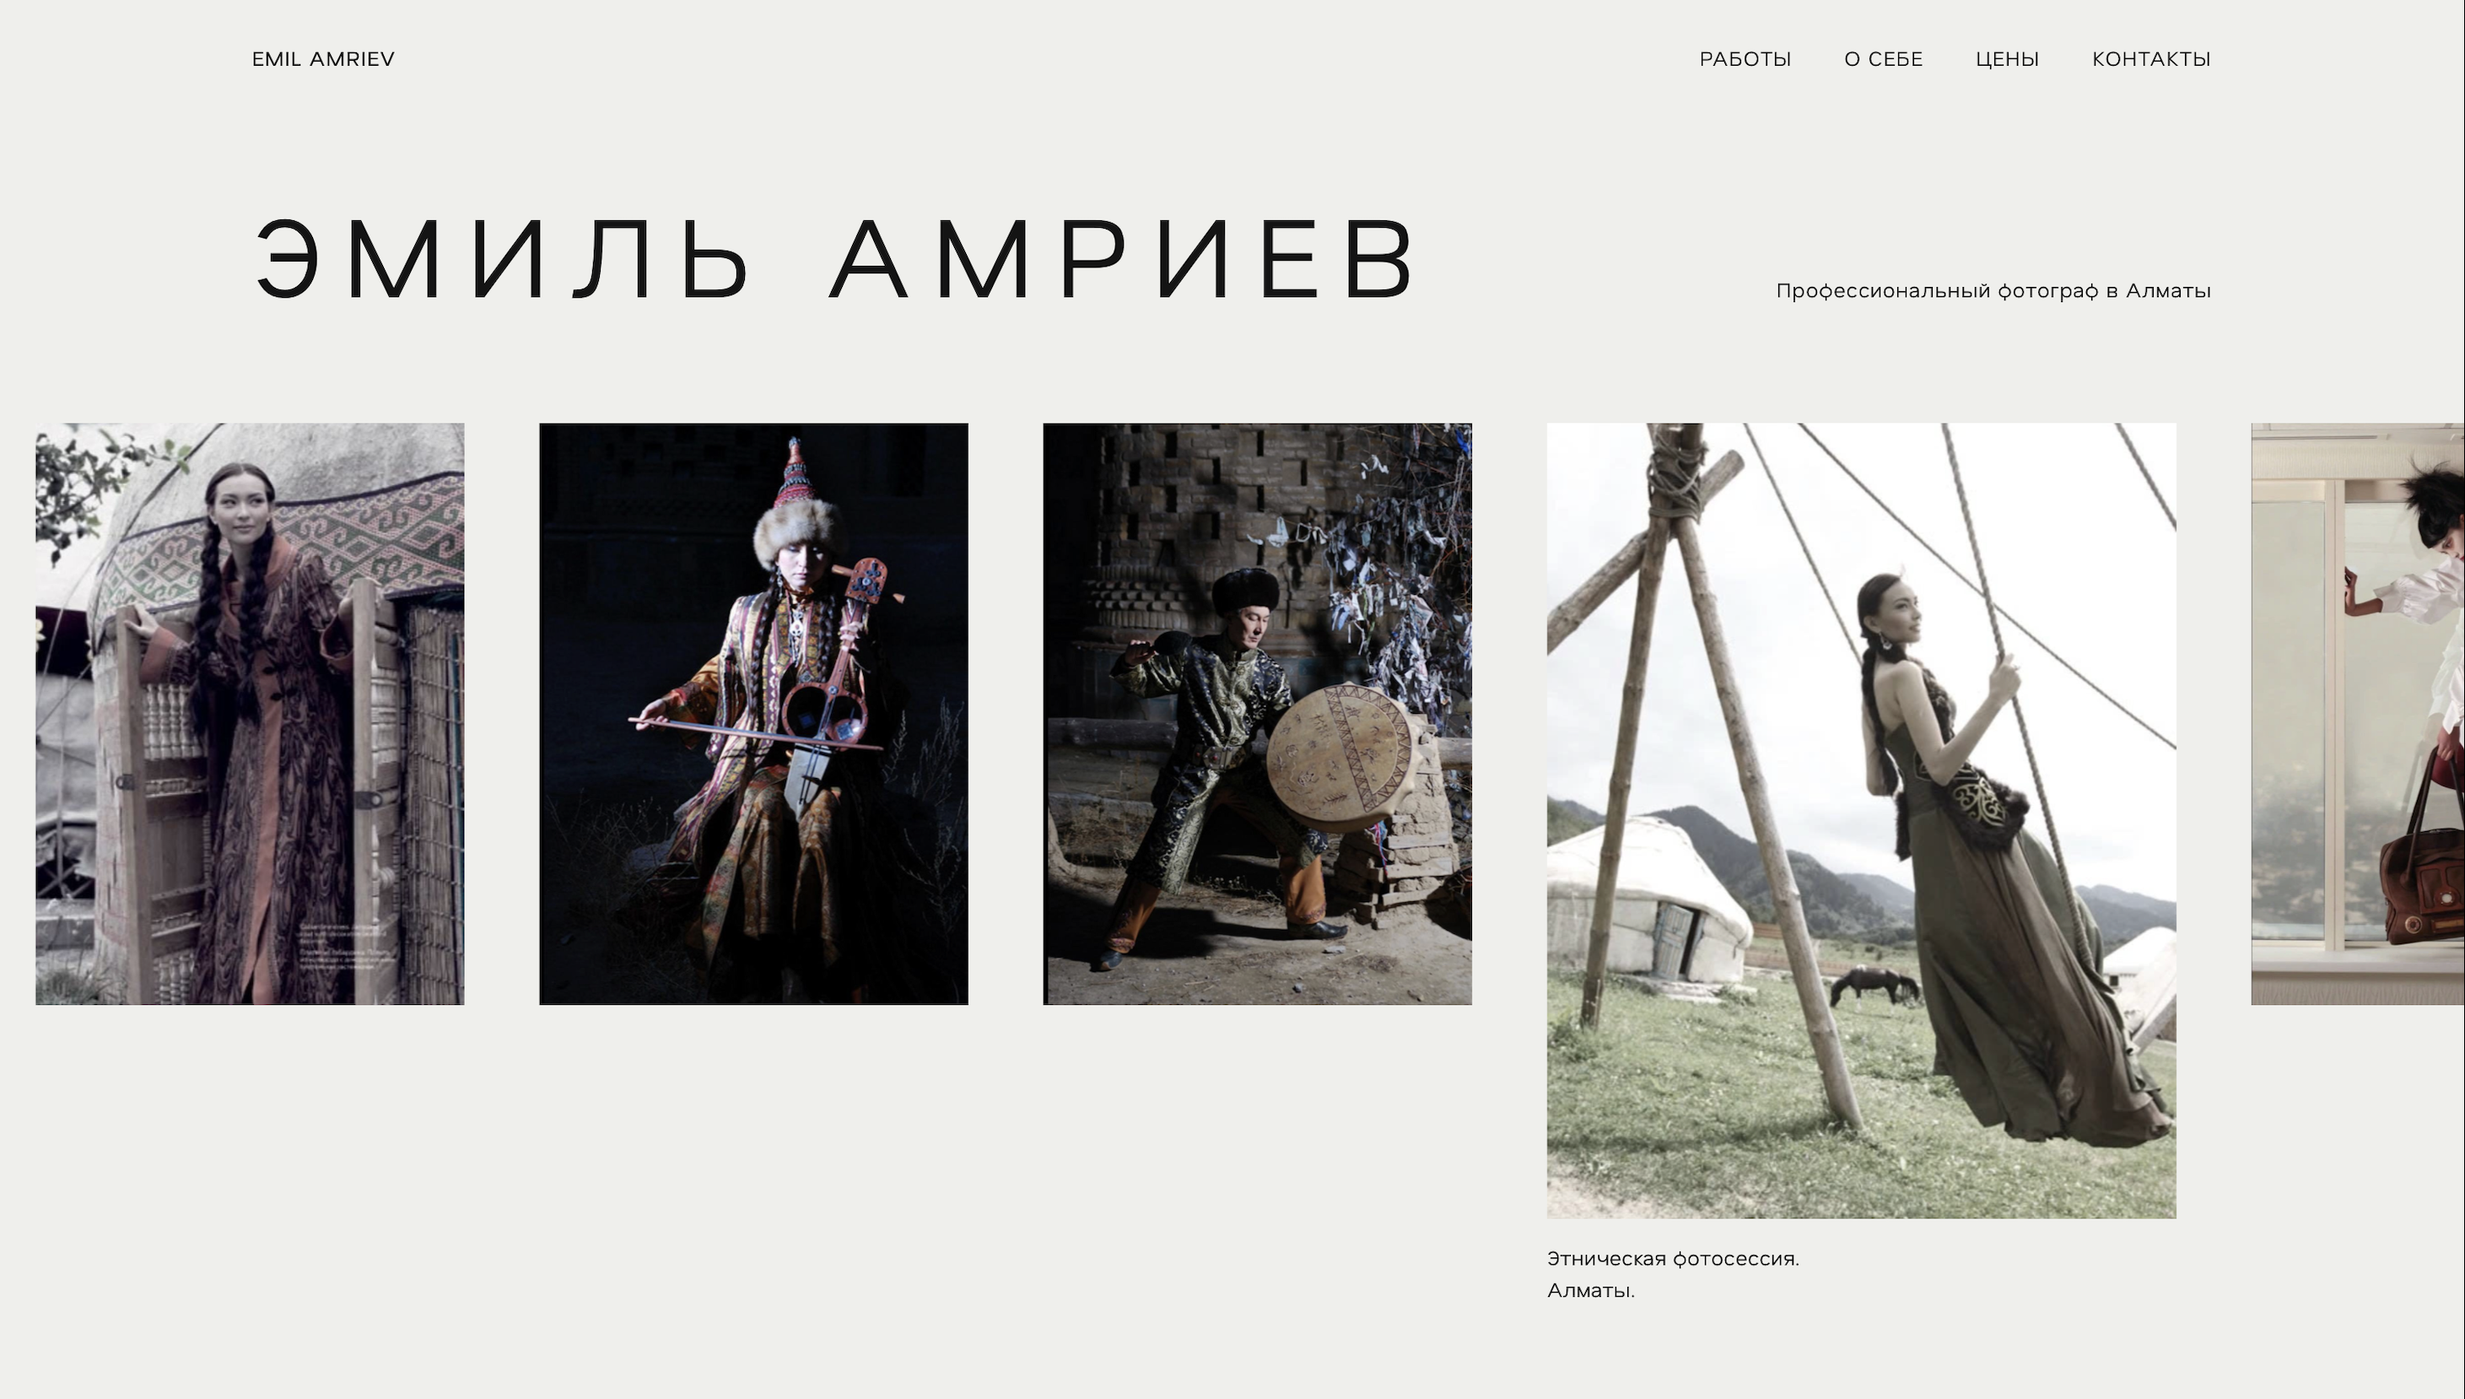
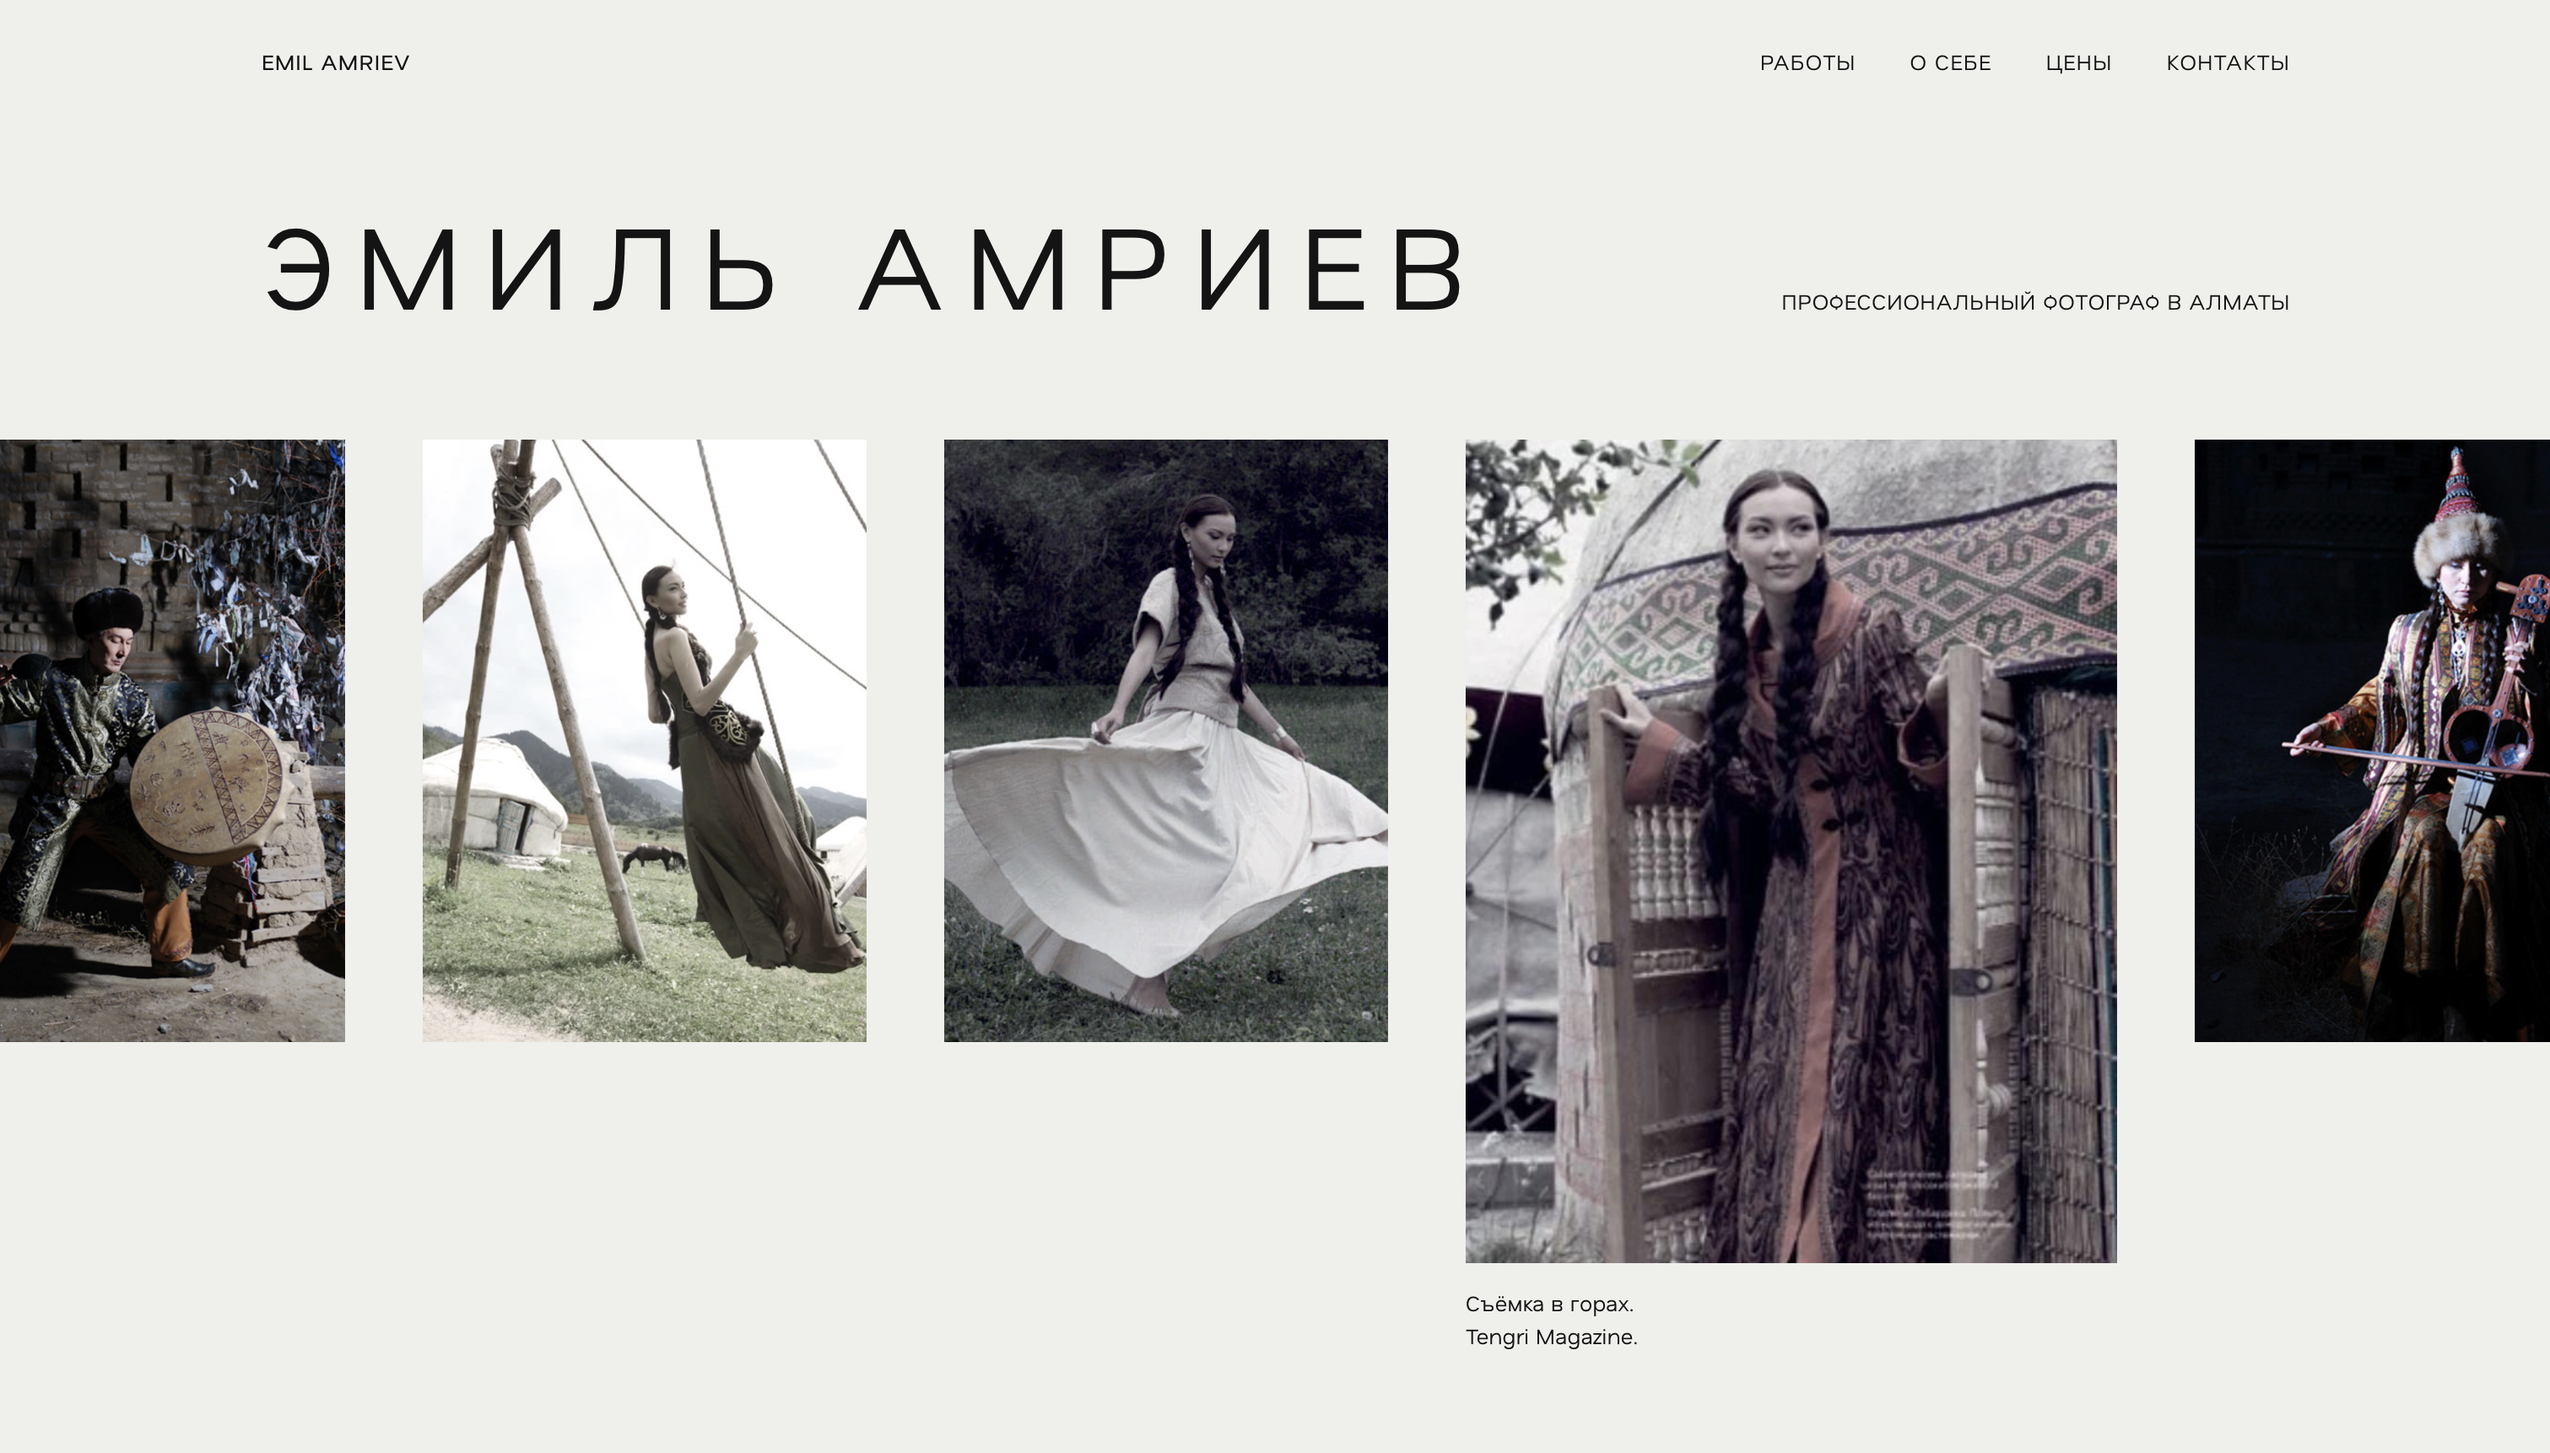
2more projects

diff --git a/project-02.html b/project-02.html
@@ -58,44 +58,22 @@
       <img src="img/project-2/project2.png">
     </div>
 
-    <div class="project-section reveal">
-      <h2 class="project-section-label">Preview</h2>
-      <div class="project-video-wrap">
-        <iframe
-          src="https://www.youtube.com/embed/YOUR_VIDEO_ID"
-          title="Project 02 Preview"
-          allow="accelerometer; autoplay; clipboard-write; encrypted-media; gyroscope; picture-in-picture"
-          allowfullscreen
-          id="previewVideo">
-        </iframe>
-        <div class="video-placeholder" id="videoPlaceholder">
-          <div class="video-play-icon"></div>
-          <span>Video Preview</span>
-          <span style="font-size:11px;opacity:0.5;">Replace YOUR_VIDEO_ID in the HTML</span>
-        </div>
-      </div>
+  <div class="project-cover reveal">
+      <img src="img/project-2/project2-2.png">
     </div>
 
-    <div class="project-section reveal">
-      <h2 class="project-section-label">Overview</h2>
-      <p class="project-body-text">Add your project overview here. Describe the context, the challenge, and your approach.</p>
-      <div class="project-image" style="margin-top:36px;">
-        <div class="project-image-placeholder">Project image</div>
-      </div>
+    <div class="project-cover reveal">
+      <img src="img/project-2/project2-3.png">
     </div>
 
-    <div class="project-section reveal">
-      <h2 class="project-section-label">Process</h2>
-      <div class="project-image">
-        <div class="project-image-placeholder">Process image</div>
-      </div>
+    <div class="project-cover reveal">
+      <img src="img/project-2/project2-4.png">
     </div>
 
-    <div class="project-section reveal">
-      <h2 class="project-section-label">Final Design</h2>
-      <div class="project-image">
-        <div class="project-image-placeholder">Final design image</div>
-      </div>
+    <div class="project-cover reveal">
+      <img src="img/project-2/project2-5.png">
+    </div>
+
     </div>
 
     <div class="project-bottom-nav">

diff --git a/index.html b/index.html
@@ -83,25 +83,25 @@
         <article class="work-card work-card--large">
           <a href="project-03.html" class="work-image-link">
             <div class="work-image">
-              
+              <img src="img/project-3/project3.png">
             </div>
           </a>
-          <h3 class="work-title"><a href="project-03.html">Project 03</a></h3>
-          <p class="work-desc">Replace with your project title and description.</p>
+          <h3 class="work-title"><a href="#">Prollen</a></h3>
+          <p class="work-desc">Work in progress</p>
         </article>
         <article class="work-card work-card--small">
           <a href="project-04.html" class="work-image-link">
             <div class="work-image">
-              
+              <img src="img/project-4/project4.png">
             </div>
           </a>
-          <h3 class="work-title"><a href="project-04.html">Project 04</a></h3>
-          <p class="work-desc">Replace with your project title and description.</p>
+          <h3 class="work-title"><a href="#">ORI</a></h3>
+          <p class="work-desc">Work in progress</p>
         </article>
       </div>
 
       <!-- Row 3: small left, large right -->
-      <div class="works-row reveal">
+      <!-- <div class="works-row reveal">
         <article class="work-card work-card--small">
           <a href="project-02.html" class="work-image-link">
             <div class="work-image">
@@ -120,7 +120,7 @@
           <h3 class="work-title"><a href="project-03.html">Project 03</a></h3>
           <p class="work-desc">Replace with your project title and description.</p>
         </article>
-      </div>
+      </div> -->
 
     </div>
   </section>
